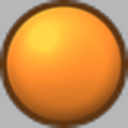
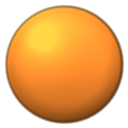
layout cerchi: 2 righe da 5 (ten-frame) invece della piramide; texture pedine 3D con sfondo trasparente (niente quadrati attorno ai cerchi)

diff --git a/grid9.js b/grid9.js
@@ -14,15 +14,15 @@
  *      icone in alto RESTATE: indietro, monete, Classic, gemme, ingranaggi);
  *   2. nasconde il logo Ludo su LoadingScene/Lobby (niente branding al loading);
  *   3. svuota Cells e costruisce la tavola: 9 quadranti (3x3) × 10 cerchi
- *      grigi NUMERATI 1-10 a piramide 3-4-3 (90 slot) + vassoio in basso
- *      con le 9 pedine colorate (×10 l'una); la pedina piazzata prende il
- *      numero del cerchio su cui si incasta;
+ *      grigi NUMERATI 1-10 in DUE RIGHE DA 5 (ten-frame, 90 slot) + vassoio
+ *      in basso con le 9 pedine colorate (×10 l'una); la pedina piazzata
+ *      prende il numero del cerchio su cui si incasta;
  *   4. DRAG AND DROP come il riferimento: trascini la pedina N su un cerchio
  *      grigio del quadrante N (stesso colore) → la pedina si incasta sul
  *      cerchio; numero sbagliato o quadrante pieno → torna nel vassoio;
  *   5. una pedina piazzata si può spostare su un altro cerchio libero dello
  *      stesso quadrante o rimuovere trascinandola di nuovo nel vassoio;
- *   6. quadrante completato (9/9) → toast + pulsazione della piastrella;
+ *   6. quadrante completato (10/10) → toast + pulsazione della piastrella;
  *   7. interfaccia in INGLESE; window.Grid9API per il futuro layer realtime.
  */
 (function () {
@@ -35,7 +35,7 @@
 
   // geometria dentro GameBoard (626x626)
   var TILE = 200, TILE_STEP = 204, TILE_ORIGIN = -204; // 3 tile da 200 + 2 gap da 4 = 608
-  var CIRC = 30, CIRC_STEP = 34;                        // cerchi 3-4-3 dentro la box bianca
+  var CIRC = 26, CIRC_STEP = 28, ROW_STEP = 30;         // cerchi in 2 righe da 5 (ten-frame) nella box bianca
   var TRAY_DISC = 46, TRAY_STEP = 52, TRAY_Y = -392;    // vassoio in basso al canvas
 
   // ── Stato ──
@@ -127,21 +127,19 @@
   }
 
   // posizione dello slot n (0..9) del quadrante q in coordinate boardParent.
-  // 10 cerchi a piramide 3-4-3 (come i birilli), numerati 1..10 per ogni colore
-  var PYRAMID_ROWS = [3, 4, 3];
+  // 10 cerchi in DUE RIGHE DA 5 (ten-frame, 1-5 sopra / 6-10 sotto), numerati 1..10 per ogni colore
   function slotPos(q, n) {
     var qRow = Math.floor(q / 3), qCol = q % 3;
     var tx = TILE_ORIGIN + qCol * TILE_STEP;
     var ty = TILE_ORIGIN + (2 - qRow) * TILE_STEP;
-    var row = 0, idx = n;
-    while (idx >= PYRAMID_ROWS[row]) { idx -= PYRAMID_ROWS[row]; row++; }
-    var count = PYRAMID_ROWS[row];
-    var x = tx + (idx - (count - 1) / 2) * CIRC_STEP;
-    var y = ty + (1 - row) * CIRC_STEP;
-    return { x: x, y: y };
+    var row = n < 5 ? 0 : 1, col = n % 5;
+    return {
+      x: tx + (col - 2) * CIRC_STEP,
+      y: ty + (row === 0 ? ROW_STEP / 2 : -ROW_STEP / 2)
+    };
   }
 
-  // ── Costruzione della tavola 9 quadranti × 9 cerchi grigi ──
+  // ── Costruzione della tavola 9 quadranti × 10 cerchi grigi ──
   function buildGrid9() {
     boardParent = cc.find("Canvas/Content/BoardContent/GameBoard/Cells");
     if (!boardParent) { console.error("[Grid9] Cells non trovato"); return false; }
@@ -174,14 +172,14 @@
         var cnode = makeSprite(sprites.gray || sprites.circle, CIRC, CIRC, p.x, p.y, -1);
         cnode.color = cc.color(255, 255, 255);
         cnode.name = "slot_" + i;
-        makeNumberLabel(cnode, String(n + 1), 13, [90, 90, 90]); // numero del cerchio, testo scuro
+        makeNumberLabel(cnode, String(n + 1), 11, [90, 90, 90]); // numero del cerchio, testo scuro
         cnode.parent = boardParent;
         circleNodes.push(cnode);
 
         var dnode = makeSprite(discFrame(q), CIRC, CIRC, p.x, p.y, 6);
         dnode.active = false;
         dnode.name = "disc_" + i;
-        makeNumberLabel(dnode, String(n + 1), 16); // la pedina prende il numero del cerchio
+        makeNumberLabel(dnode, String(n + 1), 13); // la pedina prende il numero del cerchio
         (function (idx, num) {
           dnode.on(cc.Node.EventType.TOUCH_START, function (ev) { startDrag(false, num, idx, ev); }, dnode);
           dnode.on(cc.Node.EventType.TOUCH_MOVE, function (ev) { moveDrag(ev); }, dnode);
@@ -257,7 +255,7 @@
 
     var canvas = cc.find("Canvas");
     var ghost = makeSprite(discFrame(num), CIRC, CIRC, 0, 0, 1000);
-    makeNumberLabel(ghost, String(num + 1), 17);
+    makeNumberLabel(ghost, String(num + 1), 14);
     ghost.setScale(1.25);
     var p = canvas.convertToNodeSpace(ev.getLocation());
     ghost.setPosition(p);
